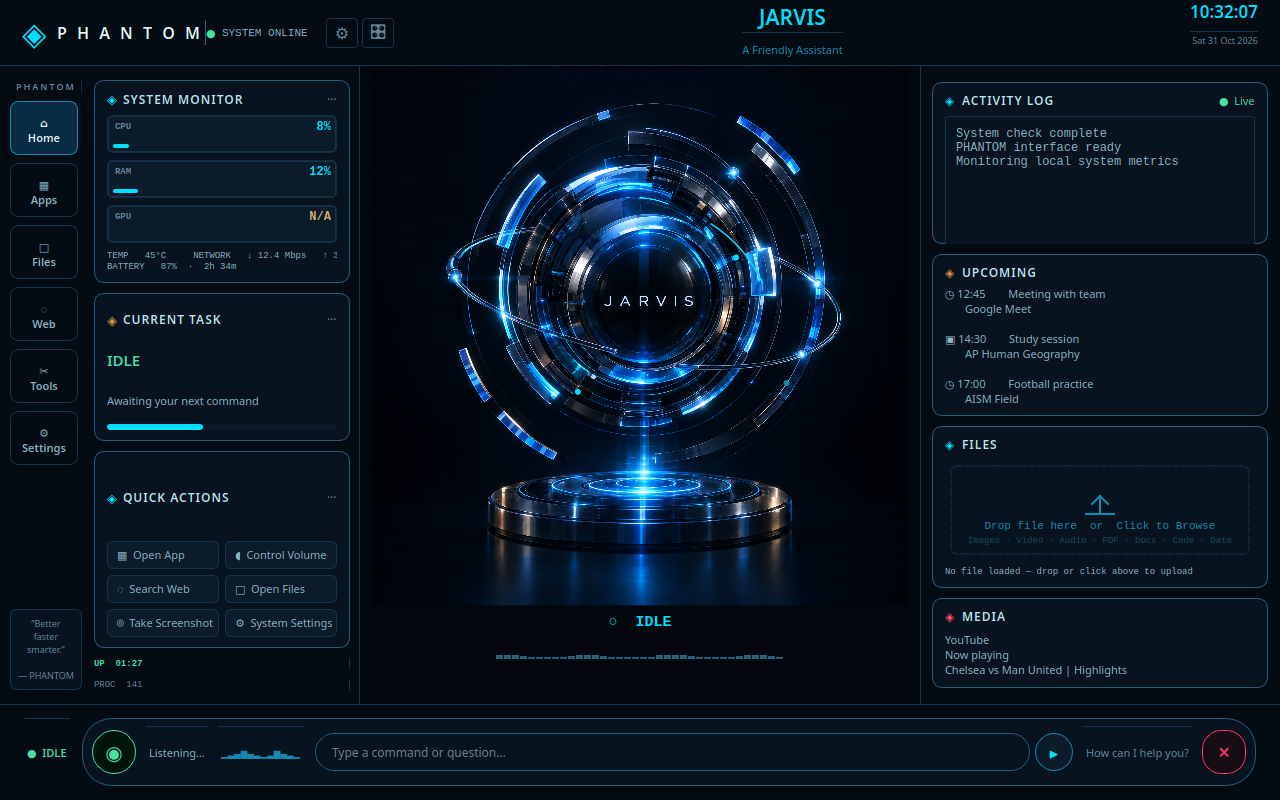
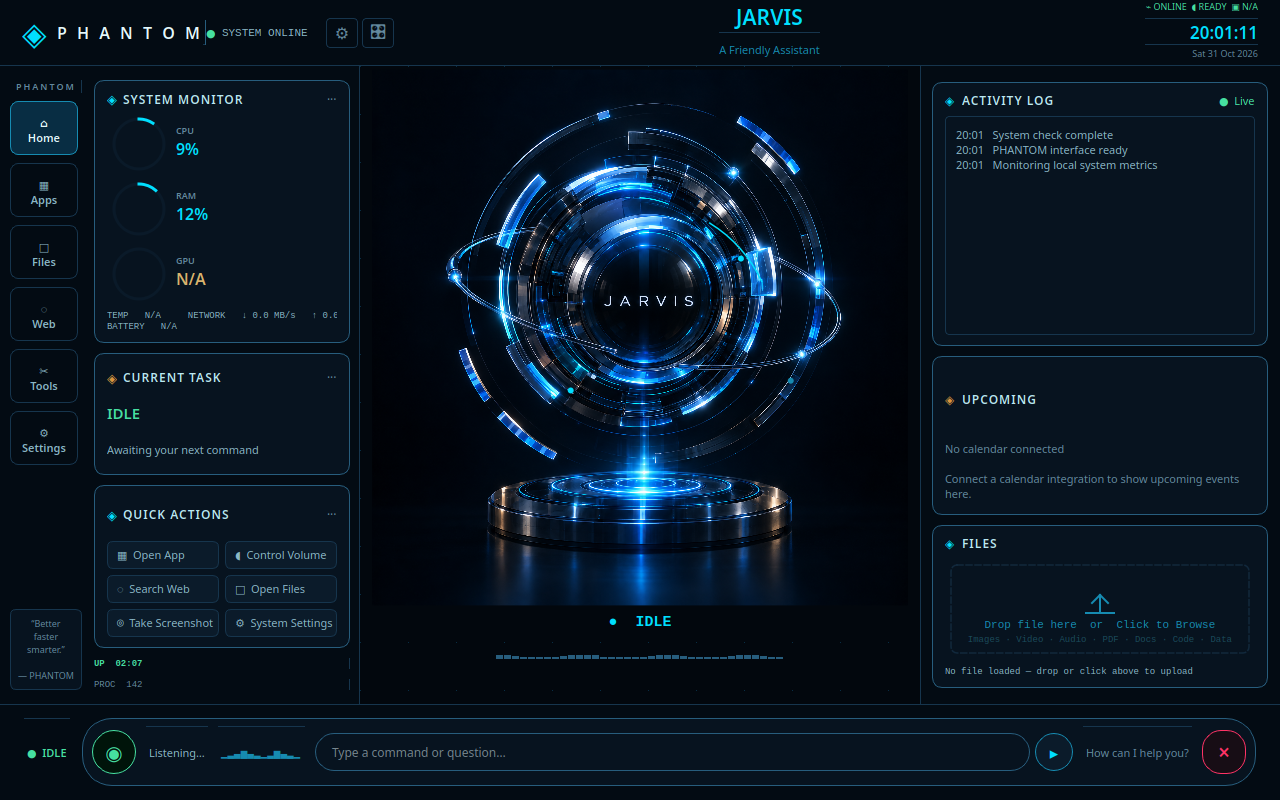
Tighten PHANTOM reference fidelity and real data

diff --git a/Mark-LVI-main/Mark-LVI-main/ui.py b/Mark-LVI-main/Mark-LVI-main/ui.py
@@ -36,18 +36,31 @@ from PyQt6.QtGui import (
     QFontDatabase, QKeySequence, QLinearGradient, QPainter, QPainterPath,
     QPen, QPixmap, QRadialGradient, QShortcut,
 )
-# Video playback for the HUD. Part of PyQt6, so it costs no new dependency —
-# but the multimedia plugins are a separate piece of the Qt install and can be
-# absent on a stripped-down system, so a failure here disables one feature
-# rather than stopping JARVIS from starting.
-try:
-    from PyQt6.QtMultimedia import QAudioOutput, QMediaPlayer
-    from PyQt6.QtMultimediaWidgets import QGraphicsVideoItem
-    HAVE_VIDEO = True
-except Exception as _e:            # noqa: BLE001 - reported, never fatal
+# Video playback for the HUD. On Linux, constructing Qt audio objects without a
+# PulseAudio/PipeWire session can terminate the whole interpreter in native code;
+# detect that environment before importing/constructing the optional backend.
+_runtime = Path(os.environ.get("XDG_RUNTIME_DIR", f"/run/user/{os.getuid()}"))
+_qt_audio_session = platform.system() != "Linux" or any(
+    p.exists() for p in (
+        _runtime / "pipewire-0",
+        _runtime / "pulse" / "native",
+        Path("/run/pipewire/pipewire-0"),
+    )
+)
+_video_disabled = os.environ.get("PHANTOM_DISABLE_VIDEO", "").lower() in {"1", "true", "yes"}
+if _qt_audio_session and not _video_disabled:
+    try:
+        from PyQt6.QtMultimedia import QAudioOutput, QMediaPlayer
+        from PyQt6.QtMultimediaWidgets import QGraphicsVideoItem
+        HAVE_VIDEO = True
+    except Exception as _e:            # noqa: BLE001 - reported, never fatal
+        QAudioOutput = QMediaPlayer = QGraphicsVideoItem = None
+        HAVE_VIDEO = False
+        print(f"[Video] playback unavailable ({_e}) — the HUD will not show video.")
+else:
     QAudioOutput = QMediaPlayer = QGraphicsVideoItem = None
     HAVE_VIDEO = False
-    print(f"[Video] playback unavailable ({_e}) — the HUD will not show video.")
+    print("[Video] playback disabled — no desktop audio session is available.")
 
 from PyQt6.QtWidgets import (
     QApplication, QComboBox, QFileDialog, QFrame, QGridLayout, QHBoxLayout, QLabel, QLineEdit,
@@ -252,9 +265,13 @@ class _SysMetrics:
     def __init__(self):
         self.cpu  = 0.0
         self.mem  = 0.0
-        self.net  = 0.0   
-        self.gpu  = -1.0  
-        self.tmp  = -1.0  
+        self.net  = 0.0
+        self.net_up = 0.0
+        self.net_down = 0.0
+        self.gpu  = -1.0
+        self.tmp  = -1.0
+        self.battery = -1.0
+        self.battery_secs = -1
         self._lock = threading.Lock()
         self._last_net = psutil.net_io_counters()
         self._last_net_t = time.time()
@@ -290,9 +307,11 @@ class _SysMetrics:
         if dt > 0:
             sent = (nc.bytes_sent - self._last_net.bytes_sent) / dt
             recv = (nc.bytes_recv - self._last_net.bytes_recv) / dt
-            net  = (sent + recv) / (1024 * 1024)
+            net_up  = max(0.0, sent / (1024 * 1024))
+            net_down = max(0.0, recv / (1024 * 1024))
+            net  = net_up + net_down
         else:
-            net = 0.0
+            net = net_up = net_down = 0.0
         self._last_net   = nc
         self._last_net_t = now
 
@@ -307,12 +326,26 @@ class _SysMetrics:
             gpu = self.gpu
             tmp = self.tmp
 
+        battery = -1.0
+        battery_secs = -1
+        try:
+            bat = psutil.sensors_battery()
+            if bat is not None:
+                battery = float(bat.percent)
+                battery_secs = int(bat.secsleft) if bat.secsleft >= 0 else -1
+        except Exception:
+            pass
+
         with self._lock:
             self.cpu = cpu
             self.mem = mem
             self.net = net
+            self.net_up = net_up
+            self.net_down = net_down
             self.gpu = gpu
             self.tmp = tmp
+            self.battery = battery
+            self.battery_secs = battery_secs
 
     def _get_gpu(self) -> float:
         # pynvml — subprocess-free; initialise once and reuse the handle.
@@ -395,8 +428,12 @@ class _SysMetrics:
                 "cpu": self.cpu,
                 "mem": self.mem,
                 "net": self.net,
+                "net_up": self.net_up,
+                "net_down": self.net_down,
                 "gpu": self.gpu,
                 "tmp": self.tmp,
+                "battery": self.battery,
+                "battery_secs": self.battery_secs,
             }
 
 
@@ -1291,7 +1328,7 @@ class MetricBar(QWidget):
         self._color = color
         self._value = 0.0       # 0–100
         self._text  = "--"
-        self.setFixedHeight(38)
+        self.setFixedHeight(58)
         self.setMinimumWidth(80)
 
     def set_value(self, pct: float, text: str):
@@ -1309,20 +1346,6 @@ class MetricBar(QWidget):
         p.setRenderHint(QPainter.RenderHint.Antialiasing)
         W, H = self.width(), self.height()
 
-        p.setBrush(QBrush(qcol(C.PANEL2)))
-        p.setPen(QPen(qcol(C.BORDER_A), 1))
-        p.drawRoundedRect(QRectF(1, 1, W - 2, H - 2), 4, 4)
-
-        bar_h   = 4
-        bar_y   = H - bar_h - 5
-        bar_w   = W - 12
-        bar_x   = 6
-        fill_w  = int(bar_w * self._value / 100)
-
-        p.setBrush(QBrush(qcol(C.BAR_BG)))
-        p.setPen(Qt.PenStyle.NoPen)
-        p.drawRoundedRect(QRectF(bar_x, bar_y, bar_w, bar_h), 2, 2)
-
         if self._value > 85:
             bar_col = qcol(C.RED)
         elif self._value > 65:
@@ -1330,17 +1353,22 @@ class MetricBar(QWidget):
         else:
             bar_col = qcol(self._color)
 
-        if fill_w > 0:
-            p.setBrush(QBrush(bar_col))
-            p.drawRoundedRect(QRectF(bar_x, bar_y, fill_w, bar_h), 2, 2)
+        d = min(H - 8, 50)
+        x, y = 7, (H - d) / 2
+        p.setBrush(Qt.BrushStyle.NoBrush)
+        p.setPen(QPen(qcol(C.BAR_BG), 3))
+        p.drawEllipse(QRectF(x, y, d, d))
+        p.setPen(QPen(bar_col, 3))
+        p.drawArc(QRectF(x, y, d, d), 90 * 16, -int(self._value * 3.6 * 16))
 
-        p.setFont(QFont("Courier New", 7, QFont.Weight.Bold))
+        p.setFont(QFont("Segoe UI", 7, QFont.Weight.DemiBold))
         p.setPen(QPen(qcol(C.TEXT_DIM), 1))
-        p.drawText(QRectF(8, 5, 50, 14), Qt.AlignmentFlag.AlignLeft | Qt.AlignmentFlag.AlignVCenter, self._label)
-
-        p.setFont(QFont("Courier New", 9, QFont.Weight.Bold))
+        p.drawText(QRectF(x + d + 12, y + 4, W - x - d - 18, 16),
+                   Qt.AlignmentFlag.AlignLeft | Qt.AlignmentFlag.AlignVCenter, self._label)
+        p.setFont(QFont("Segoe UI", 12, QFont.Weight.DemiBold))
         p.setPen(QPen(bar_col if self._text != "--" else qcol(C.TEXT_DIM), 1))
-        p.drawText(QRectF(0, 4, W - 6, 16), Qt.AlignmentFlag.AlignRight | Qt.AlignmentFlag.AlignVCenter, self._text)
+        p.drawText(QRectF(x + d + 12, y + 18, W - x - d - 18, 24),
+                   Qt.AlignmentFlag.AlignLeft | Qt.AlignmentFlag.AlignVCenter, self._text)
 
         p.end()
 
@@ -1354,7 +1382,7 @@ class LogWidget(QTextEdit):
         # without bound — keeps memory flat and every insert cheap. Oldest
         # lines drop off the top automatically.
         self.document().setMaximumBlockCount(600)
-        self.setFont(QFont("Courier New", 9))
+        self.setFont(QFont("Segoe UI", 8))
         self.setStyleSheet(f"""
             QTextEdit {{
                 background: {C.PANEL};
@@ -1398,9 +1426,10 @@ class LogWidget(QTextEdit):
             self._typing = False
             return
         self._typing = True
-        self._text   = self._queue.pop(0)
+        raw_text = str(self._queue.pop(0)).strip()
+        self._text   = f"{time.strftime('%H:%M')}   {raw_text}"
         self._pos    = 0
-        tl = self._text.lower()
+        tl = raw_text.lower()
         _ai_pfx = f"{self._ai_name_lc}:"
         if   tl.startswith("you:"):                              self._tag = "you"
         elif tl.startswith(_ai_pfx) or tl.startswith("jarvis:"): self._tag = "ai"
@@ -5584,6 +5613,31 @@ class MainWindow(QMainWindow):
         except Exception:
             self._proc_lbl.setText("PROC  --")
 
+        tmp_text = f"{tmp:.0f}°C" if tmp >= 0 else "N/A"
+        up = snap.get("net_up", 0.0)
+        down = snap.get("net_down", 0.0)
+        battery = snap.get("battery", -1.0)
+        battery_text = f"{battery:.0f}%" if battery >= 0 else "N/A"
+        if hasattr(self, "_stat_details_lbl"):
+            self._stat_details_lbl.setText(
+                f"TEMP   {tmp_text}     NETWORK   ↓ {down:.1f} MB/s   ↑ {up:.1f} MB/s\n"
+                f"BATTERY   {battery_text}"
+            )
+        try:
+            interfaces = psutil.net_if_stats()
+            online = any(info.isup for name, info in interfaces.items()
+                         if not name.lower().startswith(("lo", "loopback")))
+        except Exception:
+            online = False
+        audio_label = "MUTED" if getattr(self, "_muted", False) else "READY"
+        if hasattr(self, "_header_status_lbl"):
+            self._header_status_lbl.setText(
+                f"⌁ {'ONLINE' if online else 'OFFLINE'}  ◖ {audio_label}  ▣ {battery_text}"
+            )
+            self._header_status_lbl.setStyleSheet(
+                f"color: {C.GREEN if online else C.TEXT_DIM}; background: transparent;"
+            )
+
 
     def _build_header(self) -> QWidget:
         w = QWidget()
@@ -5675,6 +5729,11 @@ class MainWindow(QMainWindow):
         lay.addStretch()
 
         right_col = QVBoxLayout(); right_col.setSpacing(2)
+        self._header_status_lbl = QLabel("⌁ NETWORK   ◖ AUDIO   ▣ BATTERY")
+        self._header_status_lbl.setFont(QFont("Segoe UI", 7))
+        self._header_status_lbl.setStyleSheet(f"color: {C.TEXT_DIM}; background: transparent;")
+        self._header_status_lbl.setAlignment(Qt.AlignmentFlag.AlignRight)
+        right_col.addWidget(self._header_status_lbl)
         self._clock_lbl = QLabel("00:00:00")
         self._clock_lbl.setFont(QFont("Segoe UI", 13, QFont.Weight.DemiBold))
         self._clock_lbl.setStyleSheet(f"color: {C.PRI}; background: transparent;")
@@ -5772,9 +5831,9 @@ class MainWindow(QMainWindow):
         self._bar_net = MetricBar("NETWORK", C.GREEN)
         self._bar_tmp = MetricBar("TEMP", "#c88492")
         for bar in (self._bar_cpu, self._bar_mem, self._bar_gpu): mv.addWidget(bar)
-        mini = QLabel("TEMP   45°C     NETWORK   ↓ 12.4 Mbps   ↑ 3.2 Mbps\nBATTERY   87%  ·  2h 34m")
-        mini.setFont(QFont("Courier New", 7)); mini.setStyleSheet(f"color: {C.TEXT_MED};")
-        mv.addWidget(mini)
+        self._stat_details_lbl = QLabel("TEMP   N/A     NETWORK   ↓ N/A   ↑ N/A\nBATTERY   N/A")
+        self._stat_details_lbl.setFont(QFont("Courier New", 7)); self._stat_details_lbl.setStyleSheet(f"color: {C.TEXT_MED};")
+        mv.addWidget(self._stat_details_lbl)
         cards.addWidget(monitor, 4)
 
         task, tv = _card("CURRENT TASK", C.ACC)
@@ -5785,9 +5844,10 @@ class MainWindow(QMainWindow):
         self._task_detail_lbl = QLabel("Awaiting your next command")
         self._task_detail_lbl.setFont(QFont("Segoe UI", 8)); self._task_detail_lbl.setStyleSheet(f"color: {C.TEXT_MED};")
         tv.addWidget(self._task_detail_lbl)
-        progress = QProgressBar(); progress.setRange(0, 100); progress.setValue(42); progress.setTextVisible(False); progress.setFixedHeight(6)
+        progress = QProgressBar(); progress.setRange(0, 100); progress.setValue(0); progress.setTextVisible(False); progress.setFixedHeight(6); progress.setVisible(False)
         progress.setStyleSheet(f"QProgressBar {{ background: {C.PANEL2}; border: none; border-radius: 3px; }} QProgressBar::chunk {{ background: {C.PRI}; border-radius: 3px; }}")
         tv.addWidget(progress)
+        self._task_progress = progress
         cards.addWidget(task, 3)
 
         quick, qv = _card("QUICK ACTIONS", C.PRI)
@@ -5836,8 +5896,9 @@ class MainWindow(QMainWindow):
         lay.addWidget(activity, 5)
 
         upcoming, uv = _card("UPCOMING", C.ACC)
-        events = QLabel("◷ 12:45        Meeting with team\n       Google Meet\n\n▣ 14:30        Study session\n       AP Human Geography\n\n◷ 17:00        Football practice\n       AISM Field")
-        events.setFont(QFont("Segoe UI", 8)); events.setStyleSheet(f"color: {C.TEXT_MED}; line-height: 150%;")
+        events = QLabel("No calendar connected\n\nConnect a calendar integration to show upcoming events here.")
+        events.setFont(QFont("Segoe UI", 8)); events.setStyleSheet(f"color: {C.TEXT_DIM};")
+        events.setWordWrap(True)
         uv.addWidget(events)
         lay.addWidget(upcoming, 3)
 
@@ -5850,11 +5911,6 @@ class MainWindow(QMainWindow):
         self._file_hint.setWordWrap(True); fv.addWidget(self._file_hint)
         lay.addWidget(files, 2)
 
-        media, mv = _card("MEDIA", "#ff4d65")
-        media_lbl = QLabel("YouTube\nNow playing\nChelsea vs Man United | Highlights")
-        media_lbl.setFont(QFont("Segoe UI", 8)); media_lbl.setStyleSheet(f"color: {C.TEXT_MED};")
-        mv.addWidget(media_lbl)
-        lay.addWidget(media, 2)
         return w
 
     def _build_quick_drawer(self) -> QWidget:

diff --git a/ReadMe.MD b/ReadMe.MD
@@ -47,6 +47,8 @@ python3 -m py_compile \
 git diff --check
 ```
 
-The final command center follows the supplied PHANTOM concept across the whole shell: the icon navigation rail, monitor/current-task/quick-action cards, activity log, upcoming schedule, files/media cards, and floating listening dock are all built into `MainWindow` while preserving the existing callbacks. The core surface uses `Mark-LVI-main/Mark-LVI-main/assets/phantom_kinetic_core.png` for the reference-matched glass/metal finish, with live state, audio, parallax, hover, drag, and orbit-node overlays drawn by `HudCanvas`. Listening adds green orbital response, speaking adds an audio-reactive amber waveform/radial response, and hover changes parallax/focus lighting. If the asset is unavailable, the procedural QPainter kinetic core remains the safe reduced-effects fallback. No new Python dependency or GPU runtime is required.
+The final command center follows the supplied PHANTOM concept across the whole shell: the icon navigation rail, monitor/current-task/quick-action cards, activity log, upcoming module, files card, and floating listening dock are built into `MainWindow` while preserving the existing callbacks. CPU, memory, GPU, temperature, network throughput, and battery values come from the live telemetry provider; unsupported values display `N/A`. Activity entries receive live timestamps. Upcoming events and media are shown only when an integration exists, otherwise the UI presents an honest empty state instead of invented content.
+
+The core surface uses `Mark-LVI-main/Mark-LVI-main/assets/phantom_kinetic_core.png` for the reference-matched glass/metal finish, with live state, audio, parallax, hover, drag, and orbit-node overlays drawn by `HudCanvas`. Listening adds green orbital response, speaking adds an audio-reactive amber waveform/radial response, and hover changes parallax/focus lighting. If the asset is unavailable, the procedural QPainter kinetic core remains the safe reduced-effects fallback. On Linux systems without a PulseAudio/PipeWire desktop session, optional Qt video playback disables itself before backend construction so the complete assistant still launches instead of crashing; the rest of the dashboard and assistant runtime remain active.
 
 The visual specification and audit trail are stored in `design-refs/phantom-kinetic-core-desktop-default.png` and `design-refs/phantom-kinetic-core-breakdown.md`.
